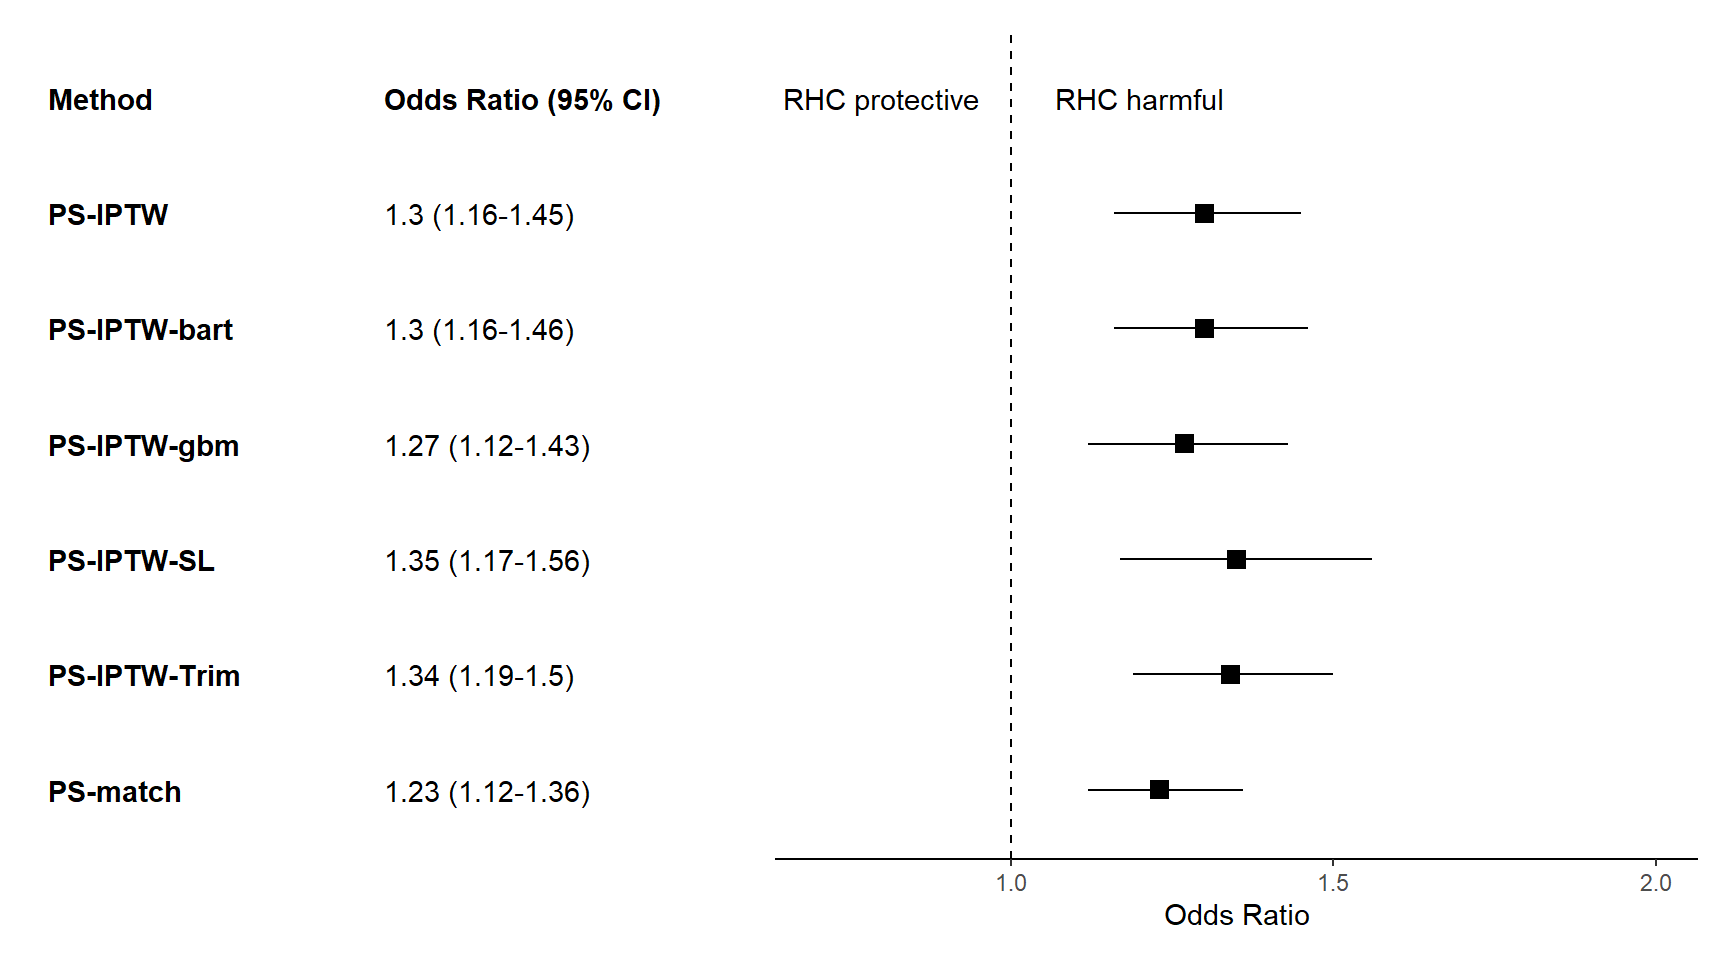
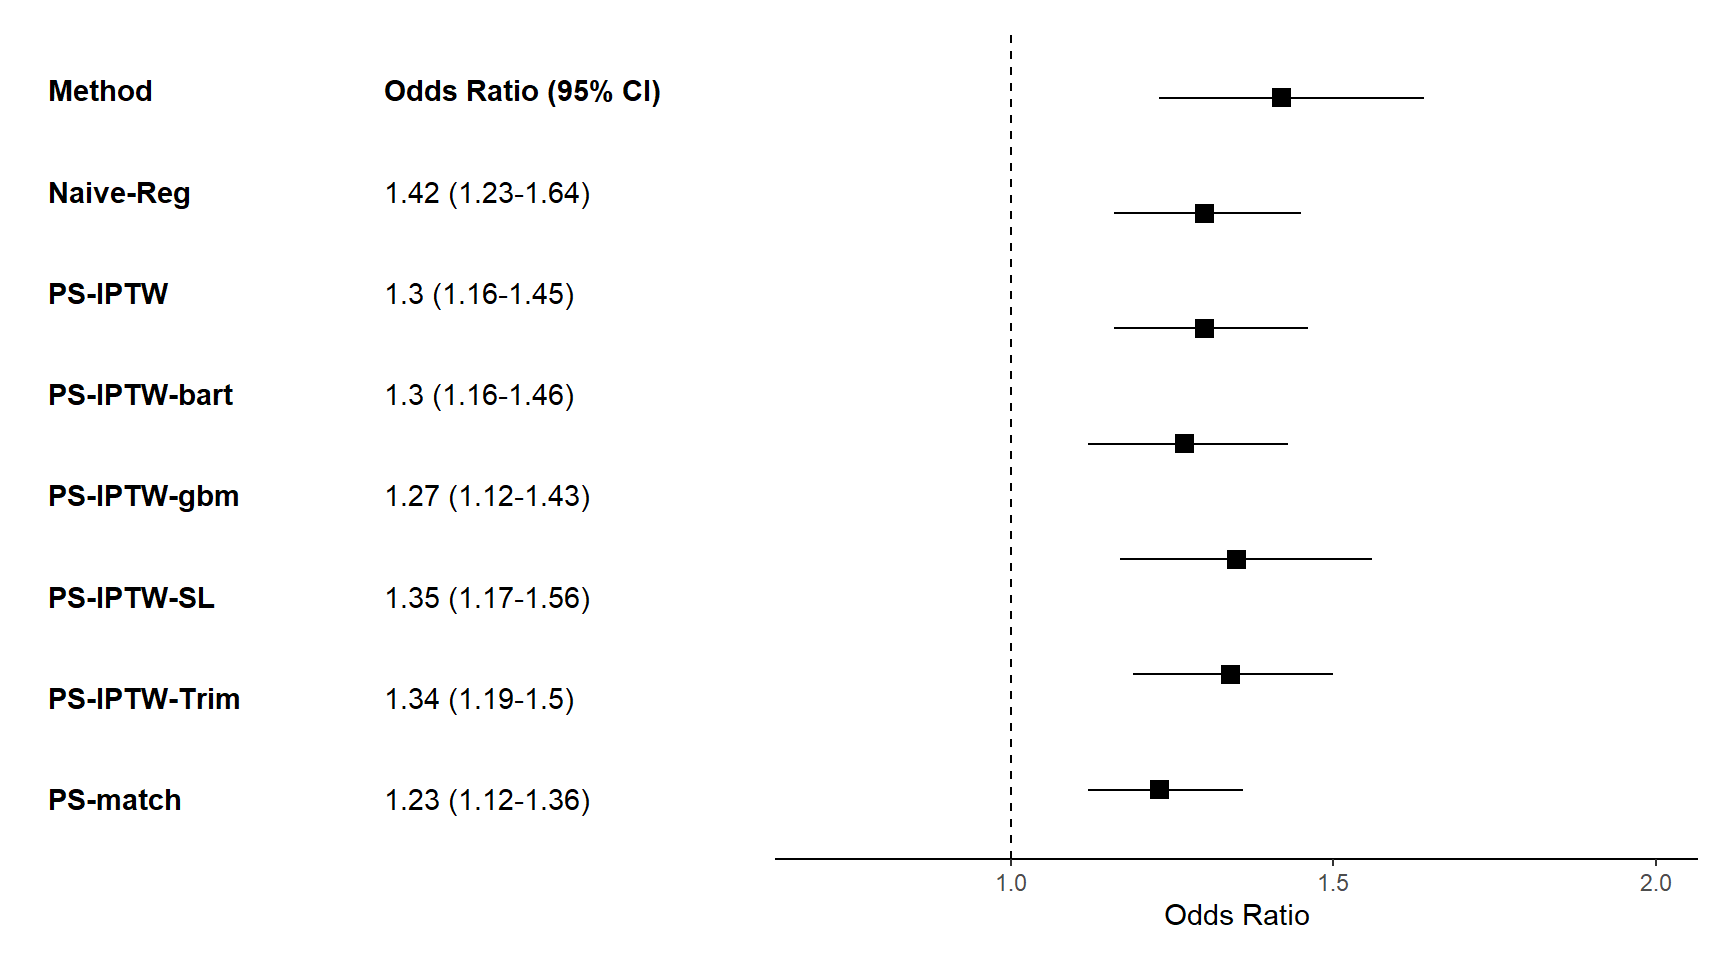
adding visual guide

diff --git a/docs/section2.html b/docs/section2.html
@@ -253,7 +253,15 @@ Outlines
 <ul>
 <li><p>Super learning can be used to obtain robust estimator. In a nut-shell it uses loss-function based ML tool and cross-validation to obtain the best prediction of model parameter of interest, based on a <strong>weighted average of a library of machine learning algorithms</strong>.</p></li>
 <li><p>Guide to SuperLearner by Chris Kennedy at <a href="https://cran.r-project.org/web/packages/SuperLearner/vignettes/Guide-to-SuperLearner.html">https://cran.r-project.org/web/packages/SuperLearner/vignettes/Guide-to-SuperLearner.html</a></p></li>
-<li><p>List of machine learning algorithms under SuperLearner R package</p></li>
+<li><p>New visual guide created by <a href="https://www.khstats.com/art/illustrations_viz.html">Katherine Hoffman</a></p></li>
+</ul>
+<div class="cell">
+<div class="cell-output-display">
+<p><img src="image/superlearning.jpeg" class="img-fluid" style="width:100.0%"></p>
+</div>
+</div>
+<ul>
+<li>List of machine learning algorithms under SuperLearner R package</li>
 </ul>
 <div class="cell">
 <div class="sourceCode cell-code" id="cb1"><pre class="sourceCode r code-with-copy"><code class="sourceCode r"><span id="cb1-1"><a href="#cb1-1" aria-hidden="true" tabindex="-1"></a><span class="fu">library</span>(SuperLearner)</span>
@@ -587,12 +595,15 @@ Weighted   2740.56 1175.59</code></pre>
 <li>Similar as before, we can check for PS distribution and balancing. Additionally, we can perform subgroup and sensitivity analysis as mentioned before.</li>
 </ul>
 <p><strong>Forest plot to display results from different approaches</strong></p>
+<ul>
+<li>code modified from <a href="https://www.khstats.com/blog/forest-plots/">https://www.khstats.com/blog/forest-plots/</a> by <a href="https://www.khstats.com/">Katherine Hoffman</a></li>
+</ul>
 <div class="cell" data-layout-align="center">
 <div class="sourceCode cell-code" id="cb16"><pre class="sourceCode r code-with-copy"><code class="sourceCode r"><span id="cb16-1"><a href="#cb16-1" aria-hidden="true" tabindex="-1"></a>plotdata <span class="ot">&lt;-</span> <span class="fu">data.frame</span>(</span>
-<span id="cb16-2"><a href="#cb16-2" aria-hidden="true" tabindex="-1"></a>  <span class="at">method =</span> <span class="fu">c</span>(<span class="st">"PS-match"</span>, <span class="st">"PS-IPTW"</span>, <span class="st">"PS-IPTW-Trim"</span>, <span class="st">"PS-IPTW-gbm"</span>, <span class="st">"PS-IPTW-SL"</span>, <span class="st">"PS-IPTW-bart"</span>),  </span>
-<span id="cb16-3"><a href="#cb16-3" aria-hidden="true" tabindex="-1"></a>  <span class="at">est.OR =</span> <span class="fu">c</span>(<span class="fl">1.23</span>, <span class="fl">1.30</span>, <span class="fl">1.34</span>, <span class="fl">1.27</span>, <span class="fl">1.35</span>, <span class="fl">1.30</span>),</span>
-<span id="cb16-4"><a href="#cb16-4" aria-hidden="true" tabindex="-1"></a>  <span class="at">conf.low =</span> <span class="fu">c</span>(<span class="fl">1.12</span>, <span class="fl">1.16</span>, <span class="fl">1.19</span>, <span class="fl">1.12</span>, <span class="fl">1.17</span>, <span class="fl">1.16</span>),</span>
-<span id="cb16-5"><a href="#cb16-5" aria-hidden="true" tabindex="-1"></a>  <span class="at">conf.high =</span> <span class="fu">c</span>(<span class="fl">1.36</span>, <span class="fl">1.45</span>, <span class="fl">1.50</span>, <span class="fl">1.43</span>, <span class="fl">1.56</span>, <span class="fl">1.46</span>))</span>
+<span id="cb16-2"><a href="#cb16-2" aria-hidden="true" tabindex="-1"></a>  <span class="at">method =</span> <span class="fu">c</span>(<span class="st">"Naive-Reg"</span>,<span class="st">"PS-match"</span>, <span class="st">"PS-IPTW"</span>, <span class="st">"PS-IPTW-Trim"</span>, <span class="st">"PS-IPTW-gbm"</span>, <span class="st">"PS-IPTW-SL"</span>, <span class="st">"PS-IPTW-bart"</span>),  </span>
+<span id="cb16-3"><a href="#cb16-3" aria-hidden="true" tabindex="-1"></a>  <span class="at">est.OR =</span> <span class="fu">c</span>(<span class="fl">1.42</span>, <span class="fl">1.23</span>, <span class="fl">1.30</span>, <span class="fl">1.34</span>, <span class="fl">1.27</span>, <span class="fl">1.35</span>, <span class="fl">1.30</span>),</span>
+<span id="cb16-4"><a href="#cb16-4" aria-hidden="true" tabindex="-1"></a>  <span class="at">conf.low =</span> <span class="fu">c</span>(<span class="fl">1.23</span>, <span class="fl">1.12</span>, <span class="fl">1.16</span>, <span class="fl">1.19</span>, <span class="fl">1.12</span>, <span class="fl">1.17</span>, <span class="fl">1.16</span>),</span>
+<span id="cb16-5"><a href="#cb16-5" aria-hidden="true" tabindex="-1"></a>  <span class="at">conf.high =</span> <span class="fu">c</span>(<span class="fl">1.64</span>, <span class="fl">1.36</span>, <span class="fl">1.45</span>, <span class="fl">1.50</span>, <span class="fl">1.43</span>, <span class="fl">1.56</span>, <span class="fl">1.46</span>))</span>
 <span id="cb16-6"><a href="#cb16-6" aria-hidden="true" tabindex="-1"></a></span>
 <span id="cb16-7"><a href="#cb16-7" aria-hidden="true" tabindex="-1"></a>p <span class="ot">&lt;-</span> </span>
 <span id="cb16-8"><a href="#cb16-8" aria-hidden="true" tabindex="-1"></a>  plotdata <span class="sc">|&gt;</span></span>
@@ -602,9 +613,9 @@ Weighted   2740.56 1175.59</code></pre>
 <span id="cb16-12"><a href="#cb16-12" aria-hidden="true" tabindex="-1"></a>  <span class="fu">geom_linerange</span>(<span class="fu">aes</span>(<span class="at">xmin=</span>conf.low, <span class="at">xmax=</span>conf.high)) <span class="sc">+</span></span>
 <span id="cb16-13"><a href="#cb16-13" aria-hidden="true" tabindex="-1"></a>  <span class="fu">geom_vline</span>(<span class="at">xintercept =</span> <span class="dv">1</span>, <span class="at">linetype=</span><span class="st">"dashed"</span>) <span class="sc">+</span></span>
 <span id="cb16-14"><a href="#cb16-14" aria-hidden="true" tabindex="-1"></a>  <span class="fu">labs</span>(<span class="at">x=</span><span class="st">"Odds Ratio"</span>, <span class="at">y=</span><span class="st">""</span>) <span class="sc">+</span></span>
-<span id="cb16-15"><a href="#cb16-15" aria-hidden="true" tabindex="-1"></a>  <span class="fu">coord_cartesian</span>(<span class="at">ylim=</span><span class="fu">c</span>(<span class="dv">1</span>,<span class="dv">7</span>), <span class="at">xlim=</span><span class="fu">c</span>(<span class="fl">0.7</span>, <span class="dv">2</span>)) <span class="sc">+</span></span>
-<span id="cb16-16"><a href="#cb16-16" aria-hidden="true" tabindex="-1"></a>  <span class="fu">annotate</span>(<span class="st">"text"</span>, <span class="at">x =</span> <span class="fl">0.8</span>, <span class="at">y =</span> <span class="dv">7</span>, <span class="at">label =</span> <span class="st">"RHC protective"</span>) <span class="sc">+</span></span>
-<span id="cb16-17"><a href="#cb16-17" aria-hidden="true" tabindex="-1"></a>  <span class="fu">annotate</span>(<span class="st">"text"</span>, <span class="at">x =</span> <span class="fl">1.2</span>, <span class="at">y =</span> <span class="dv">7</span>, <span class="at">label =</span> <span class="st">"RHC harmful"</span>) <span class="sc">+</span> </span>
+<span id="cb16-15"><a href="#cb16-15" aria-hidden="true" tabindex="-1"></a>  <span class="fu">coord_cartesian</span>(<span class="at">ylim=</span><span class="fu">c</span>(<span class="dv">1</span>,<span class="dv">8</span>), <span class="at">xlim=</span><span class="fu">c</span>(<span class="fl">0.7</span>, <span class="dv">2</span>)) <span class="sc">+</span></span>
+<span id="cb16-16"><a href="#cb16-16" aria-hidden="true" tabindex="-1"></a>  <span class="fu">annotate</span>(<span class="st">"text"</span>, <span class="at">x =</span> <span class="fl">0.8</span>, <span class="at">y =</span> <span class="dv">8</span>, <span class="at">label =</span> <span class="st">"RHC protective"</span>) <span class="sc">+</span></span>
+<span id="cb16-17"><a href="#cb16-17" aria-hidden="true" tabindex="-1"></a>  <span class="fu">annotate</span>(<span class="st">"text"</span>, <span class="at">x =</span> <span class="fl">1.2</span>, <span class="at">y =</span> <span class="dv">8</span>, <span class="at">label =</span> <span class="st">"RHC harmful"</span>) <span class="sc">+</span> </span>
 <span id="cb16-18"><a href="#cb16-18" aria-hidden="true" tabindex="-1"></a>  <span class="fu">theme</span>(<span class="at">axis.line.y =</span> <span class="fu">element_blank</span>(),</span>
 <span id="cb16-19"><a href="#cb16-19" aria-hidden="true" tabindex="-1"></a>        <span class="at">axis.ticks.y=</span> <span class="fu">element_blank</span>(),</span>
 <span id="cb16-20"><a href="#cb16-20" aria-hidden="true" tabindex="-1"></a>        <span class="at">axis.text.y=</span> <span class="fu">element_blank</span>(),</span>
@@ -637,15 +648,15 @@ Weighted   2740.56 1175.59</code></pre>
 <span id="cb16-47"><a href="#cb16-47" aria-hidden="true" tabindex="-1"></a></span>
 <span id="cb16-48"><a href="#cb16-48" aria-hidden="true" tabindex="-1"></a><span class="fu">library</span>(patchwork)</span>
 <span id="cb16-49"><a href="#cb16-49" aria-hidden="true" tabindex="-1"></a>layout <span class="ot">&lt;-</span> <span class="fu">c</span>(</span>
-<span id="cb16-50"><a href="#cb16-50" aria-hidden="true" tabindex="-1"></a>  <span class="fu">area</span>(<span class="at">t =</span> <span class="dv">0</span>, <span class="at">l =</span> <span class="dv">0</span>, <span class="at">b =</span> <span class="dv">15</span>, <span class="at">r =</span> <span class="dv">4</span>), <span class="co"># left plot, starts at the top of the page (0) and goes 30 units down and 3 units to the right</span></span>
-<span id="cb16-51"><a href="#cb16-51" aria-hidden="true" tabindex="-1"></a>  <span class="fu">area</span>(<span class="at">t =</span> <span class="dv">1</span>, <span class="at">l =</span> <span class="dv">5</span>, <span class="at">b =</span> <span class="dv">15</span>, <span class="at">r =</span> <span class="dv">9</span>) <span class="co"># middle plot starts a little lower (t=1) because there's no title. starts 1 unit right of the left plot (l=4, whereas left plot is r=3), goes to the bottom of the page (30 units), and 6 units further over from the left plot (r=9 whereas left plot is r=3)</span></span>
+<span id="cb16-50"><a href="#cb16-50" aria-hidden="true" tabindex="-1"></a>  <span class="fu">area</span>(<span class="at">t =</span> <span class="dv">0</span>, <span class="at">l =</span> <span class="dv">0</span>, <span class="at">b =</span> <span class="dv">15</span>, <span class="at">r =</span> <span class="dv">4</span>), <span class="co"># left plot, starts at the top of the page (0) and goes 15 units down and 4 units to the right;</span></span>
+<span id="cb16-51"><a href="#cb16-51" aria-hidden="true" tabindex="-1"></a>  <span class="fu">area</span>(<span class="at">t =</span> <span class="dv">1</span>, <span class="at">l =</span> <span class="dv">5</span>, <span class="at">b =</span> <span class="dv">15</span>, <span class="at">r =</span> <span class="dv">9</span>) <span class="co"># middle plot starts a little lower (t=1) because there's no title. starts 1 unit right of the left plot (l=5, whereas left plot is r=4);</span></span>
 <span id="cb16-52"><a href="#cb16-52" aria-hidden="true" tabindex="-1"></a>)</span>
 <span id="cb16-53"><a href="#cb16-53" aria-hidden="true" tabindex="-1"></a><span class="co"># final plot arrangement</span></span>
 <span id="cb16-54"><a href="#cb16-54" aria-hidden="true" tabindex="-1"></a>p_left <span class="sc">+</span> p <span class="sc">+</span><span class="fu">plot_layout</span>(<span class="at">design =</span> layout)</span></code><button title="Copy to Clipboard" class="code-copy-button"><i class="bi"></i></button></pre></div>
 <div class="cell-output-display">
 <div class="quarto-figure quarto-figure-center">
 <figure class="figure">
-<p><img src="section2_files/figure-html/unnamed-chunk-9-1.png" class="img-fluid figure-img" width="864"></p>
+<p><img src="section2_files/figure-html/unnamed-chunk-10-1.png" class="img-fluid figure-img" width="864"></p>
 </figure>
 </div>
 </div>
